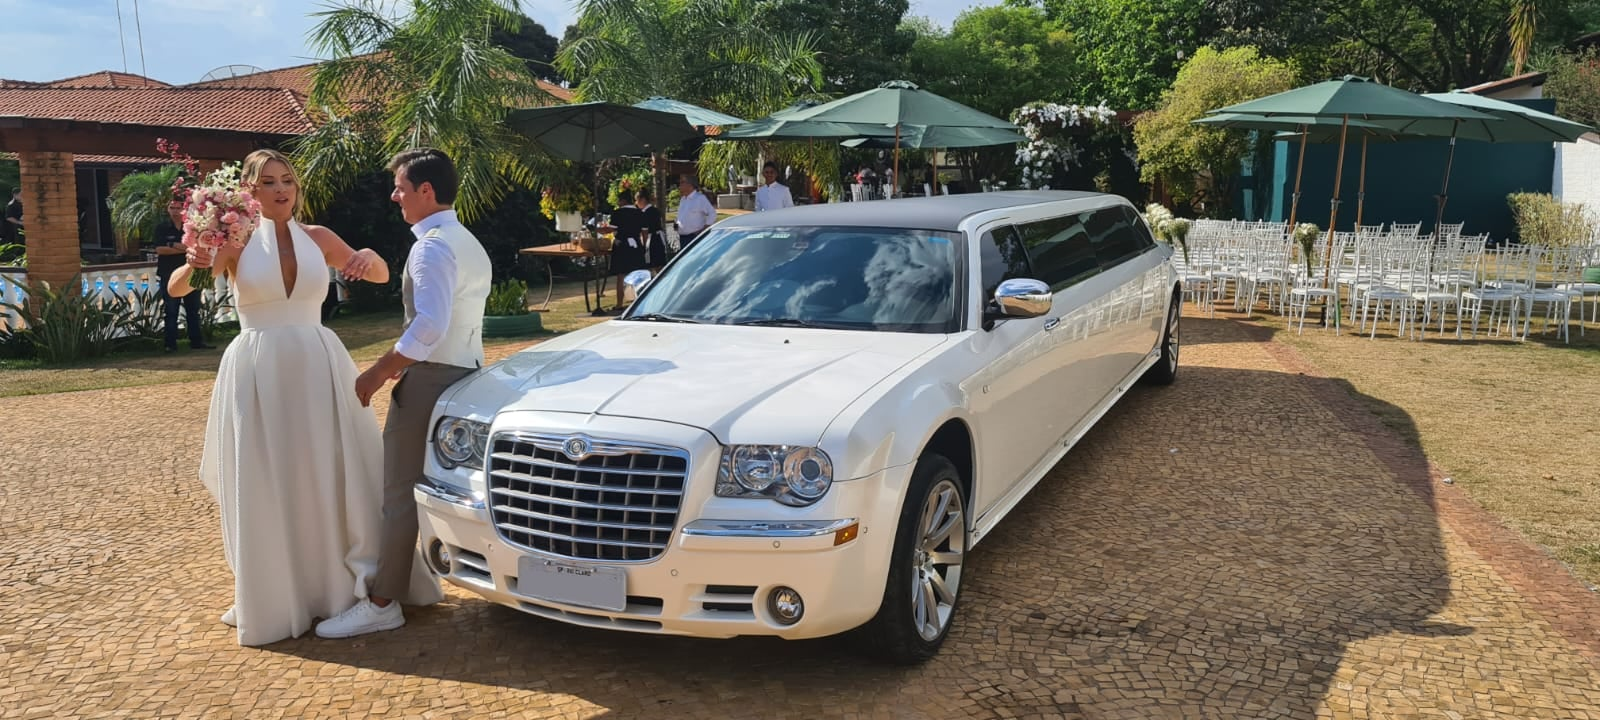
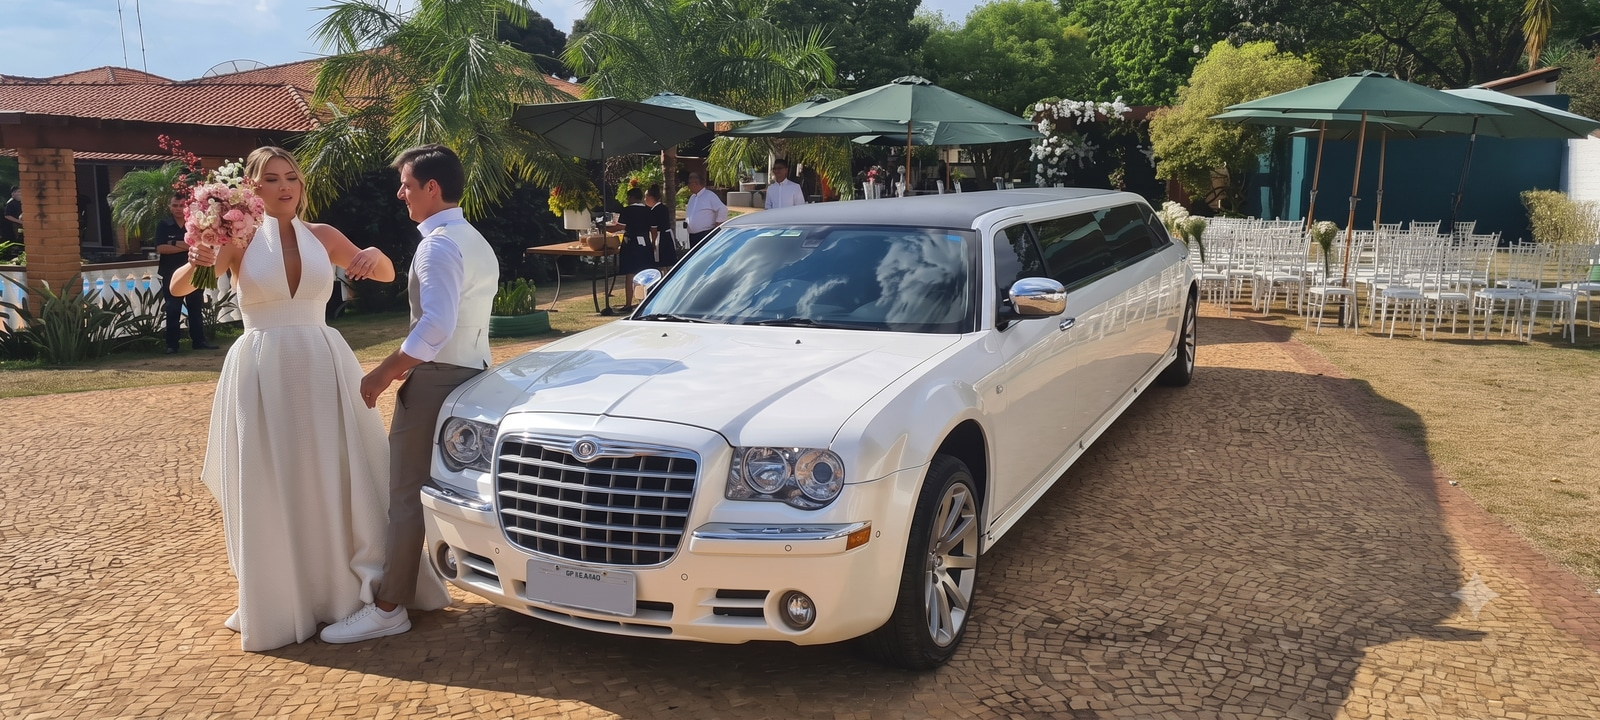
troca a foto do hero 1 por um recorte do original em alta
`Casamento1.jpg` foi refeito a partir de `Casamento1-hd.png` (3064x1376),
que substituiu um original que já vinha em 1600x720 e mole. Medido pela
variância laplaciana, o mesmo recorte em 1600px saltou de 1257 para 2543
— o dobro de detalhe fino. Ou seja, o ganho vem da FONTE, não de servir
mais pixels: o teto de 1600px do CLAUDE.md fica respeitado.

Dimensões e proporção idênticas às de antes, de propósito: o
enquadramento do hero depende de `object-position: 22%` e o carrossel do
recorte 4/5. Mudar o tamanho moveria os dois.

Custo: +41 KB, e só no degrau de 1600px do srcset.

O mesmo arquivo serve os dois lugares pelo nome base — hero e carrossel
da home, via `arquivo('Casamento1')` em galeria-limo.js —, então o
carrossel ganhou a foto mais nítida junto.

PENDENTE: no celular o hero serve a retrato `casamento2` (720x1600), que
não tem versão em alta. Até chegar uma, a troca é invisível no iPhone.

diff --git a/src/data/fotos-limo.js b/src/data/fotos-limo.js
@@ -46,6 +46,14 @@ export const fotosLimo = {
   // proporção 2.22) entrando num contêiner bem mais estreito — o `cover`
   // preserva só uma faixa da largura, então o recorte NÃO pode ser central.
   //
+  // O arquivo foi refeito a partir de `Casamento1-hd.png` (3064x1376), que
+  // substituiu um original que já vinha em 1600x720 e mole: medido pela
+  // variância laplaciana, o mesmo recorte em 1600 saltou de 1257 para 2543,
+  // o dobro de detalhe fino. As dimensões e a proporção são as MESMAS de
+  // antes de propósito — o enquadramento do hero (object-position: 22%) e o
+  // recorte no carrossel dependem delas, e mudá-las moveria os dois.
+  // Mesmo nome base serve os dois lugares: hero e carrossel (galeria-limo.js).
+  //
   // SEM `posicao` de propósito: aqui o recorte depende do breakpoint (a
   // janela vai de 880px da origem no desktop para 576px abaixo de 900px),
   // e `posicao` viraria style inline, que venceria a media query. Quem
